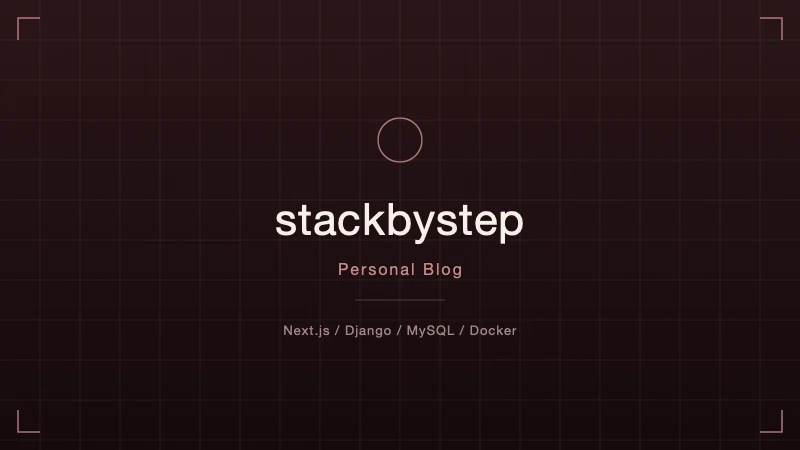
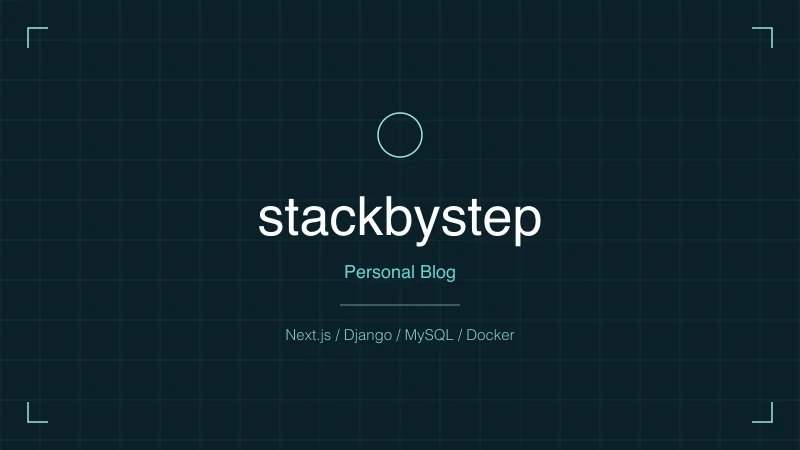
stackbystepの紹介文を「個人ブログ」に修正し、カード画像をティール系に差し替え

diff --git a/src/data/works.ts b/src/data/works.ts
@@ -15,7 +15,7 @@ export const works: Work[] = [
   {
     title: "stackbystep",
     description:
-      "Next.js + Django + MySQL で自作した個人技術ブログ。Docker Compose でサービスを分離し、ConoHa VPS に Ansible でプロビジョニング、GitHub Actions で main ブランチから自動デプロイする CI/CD パイプラインを構築。",
+      "Next.js + Django + MySQL で自作した個人ブログ。Docker Compose でサービスを分離し、ConoHa VPS に Ansible でプロビジョニング、GitHub Actions で main ブランチから自動デプロイする CI/CD パイプラインを構築。",
     tags: ["Next.js", "Django", "MySQL", "Docker", "Ansible", "GitHub Actions", "ConoHa VPS"],
     image: "/images/work-stackbystep.webp",
     demoUrl: "https://stackbystep.com/",
